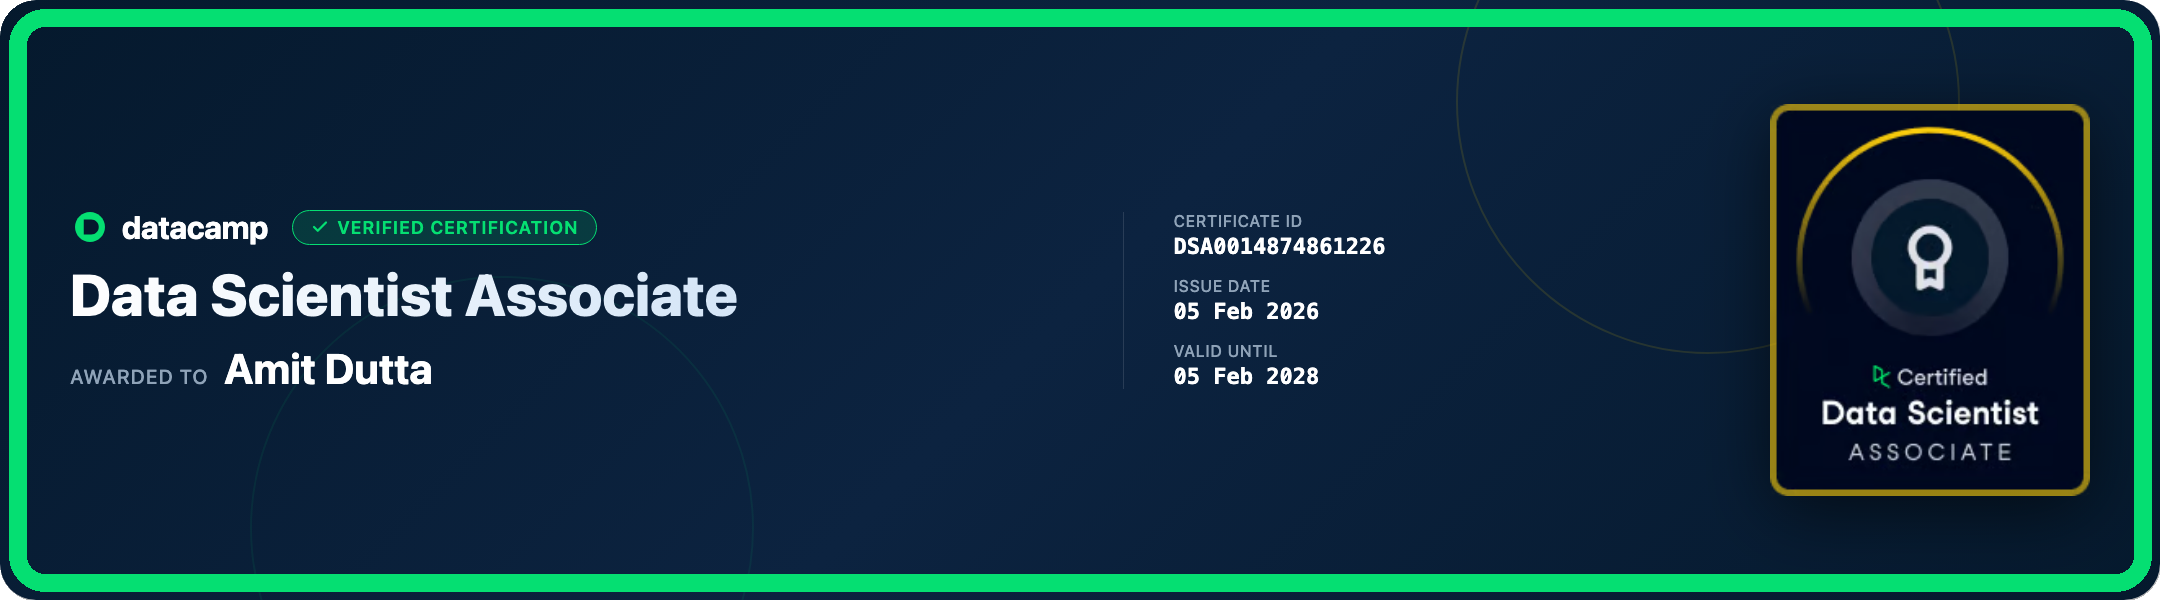
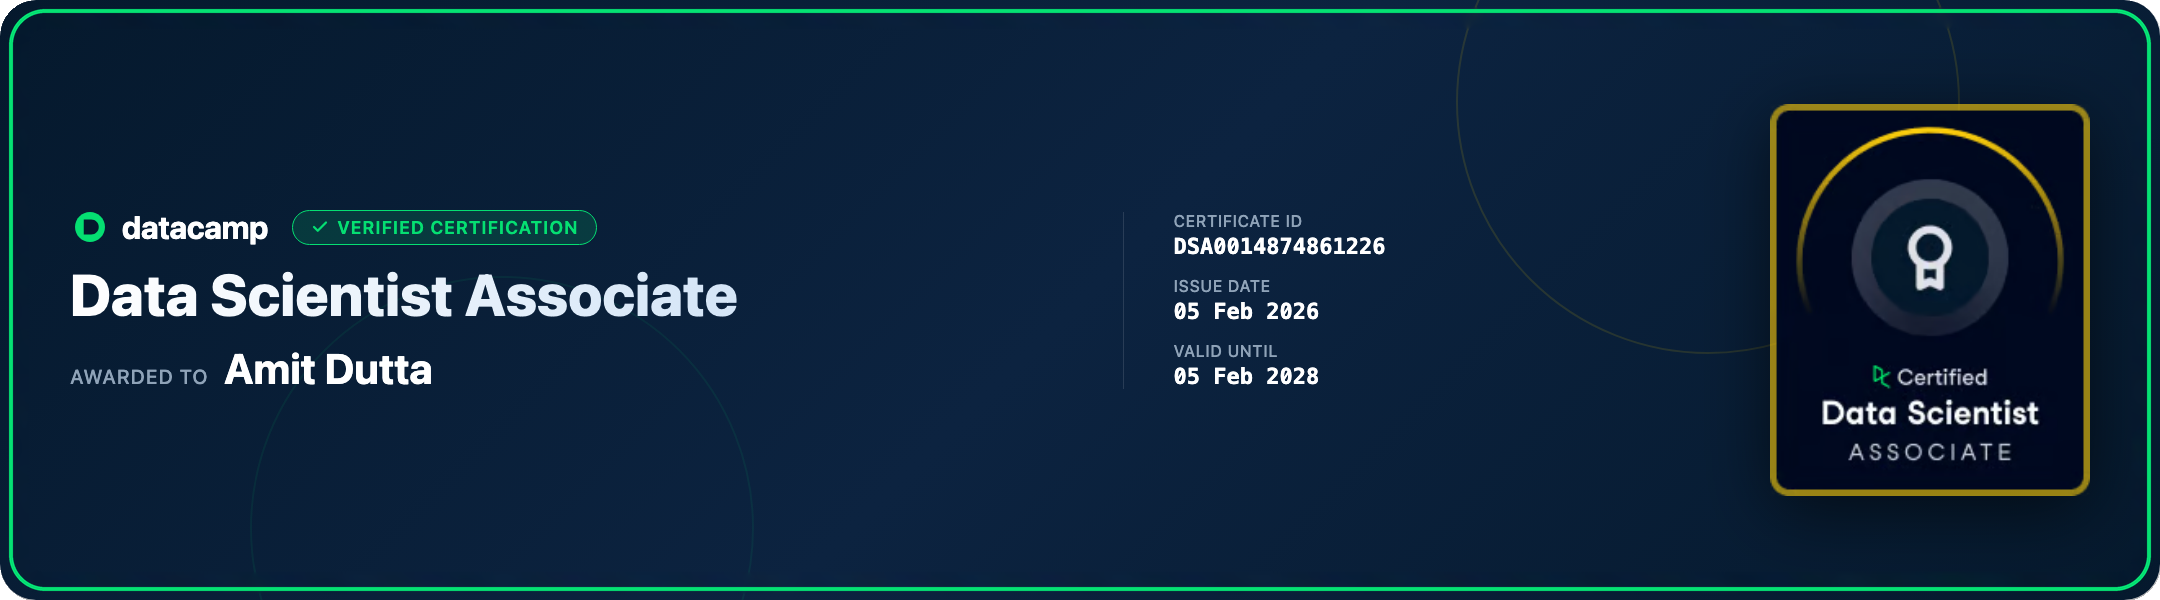
style: reduce DataCamp certificate border thickness to sleek thin outline

Changed region(s): [[0.0, 0.0, 1.0, 0.99]]

diff --git a/README.md b/README.md
@@ -69,7 +69,7 @@
 
 <p align="center">
   <a href="https://www.datacamp.com/certificate/DSA0014874861226" target="_blank">
-    <img src="./certificates/datacamp-dsa-certificate.png" width="98%" alt="DataCamp Certified Data Scientist Associate" />
+    <img src="./certificates/datacamp-dsa-certificate.png?v=2" width="98%" alt="DataCamp Certified Data Scientist Associate" />
   </a>
 </p>
 
